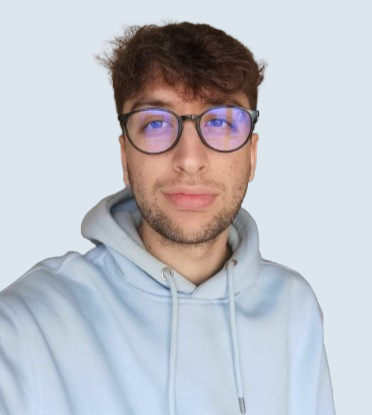
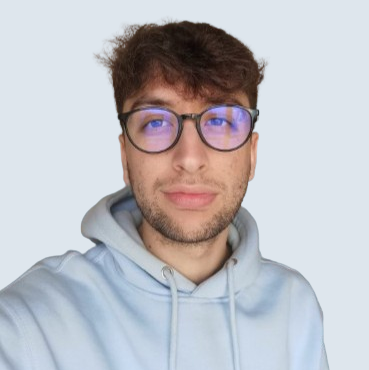
shrink and square photos, rm twitter

Changed region(s): [[0.0, 0.0297, 0.9241, 1.0], [0.626, 0.0892, 0.6856, 0.1486], [0.0, 0.9514, 0.0596, 1.0]]

diff --git a/assets/css/main.scss b/assets/css/main.scss
@@ -158,49 +158,49 @@ https://github.com/mmistakes/minimal-mistakes/blob/8a67ce8e41ec850f2d7c373aa4773
 // }
 
 // make the grid items 3 across instead of 4
-.grid__item {
+// .grid__item {
 
-  @include breakpoint($medium) {
-    margin-left: 0; /* override margin*/
-    margin-right: 0; /* override margin*/
-    width: span(4 of 12);
+//   @include breakpoint($medium) {
+//     margin-left: 0; /* override margin*/
+//     margin-right: 0; /* override margin*/
+//     width: span(4 of 12);
 
-    &:nth-child(2n + 1) {
-      clear: none;
-    }
+//     &:nth-child(2n + 1) {
+//       clear: none;
+//     }
 
-    &:nth-child(3n + 1) {
-      clear: both;
-      // clear: none;
-      // margin-left: gutter(1 of 12);
-    }
+//     &:nth-child(3n + 1) {
+//       clear: both;
+//       // clear: none;
+//       // margin-left: gutter(1 of 12);
+//     }
 
-//////////////////////////////////////// original settings
-    // &:nth-child(2n + 1) {
-    //   // clear: none;
-    // }
+// //////////////////////////////////////// original settings
+//     // &:nth-child(2n + 1) {
+//     //   // clear: none;
+//     // }
 
-    // &:nth-child(4n + 1) {
-    //   // clear: both;
-    // }
+//     // &:nth-child(4n + 1) {
+//     //   // clear: both;
+//     // }
 
-    // &:nth-child(4n + 2) {
-    //   clear: none;
-    //   // margin-left: gutter(1 of 12);
-    // }
+//     // &:nth-child(4n + 2) {
+//     //   clear: none;
+//     //   // margin-left: gutter(1 of 12);
+//     // }
 
-    // &:nth-child(4n + 3) {
-      // clear: none;
-      // margin-left: gutter(1 of 12);
-    // }
+//     // &:nth-child(4n + 3) {
+//       // clear: none;
+//       // margin-left: gutter(1 of 12);
+//     // }
 
-    // &:nth-child(4n + 4) {
-      // clear: none;
-      // margin-left: gutter(1 of 12);
-    // }
-  }
+//     // &:nth-child(4n + 4) {
+//       // clear: none;
+//       // margin-left: gutter(1 of 12);
+//     // }
+//   }
 
-}
+// }
 
 // make notices a little bigger
 .notice {
@@ -210,129 +210,7 @@ https://github.com/mmistakes/minimal-mistakes/blob/8a67ce8e41ec850f2d7c373aa4773
   font-size: $type-size-5 !important;
 }
 
-// @media (min-width: 48em) { .list__item .archive__item-teaser { max-height: 120px; } }
-// .list__item {
-//   img {
-//     max-width: 200px;
-//   }
-// }
-// .list__item {
-//   .archive__item {
-//     .archive__item-teaser {
-//       height: 200px;
-//       width: 120px;
-
-//       @include breakpoint($small) {
-//         max-height: 200px;
-//         max-width: 120px;
-//       }
-
-//       @include breakpoint($medium) {
-//         max-height: 120px;
-//         max-width: 120px;
-//       }
-
-//     }
-
-//   }
-// }
-// .archive__item-teaserlist {
-//   position: relative;
-//   border-radius: $border-radius;
-//   overflow: hidden;
-
-//   img {
-//     max-height: 200px;
-//     max-width: 200px;
-//     height: auto;
-//   }
-// }
-// .list_item {
-//   margin-bottom: 2em;
-
-//   @include breakpoint($small) {
-//     float: inline-start;
-//     width: span(5 of 10);
-
-//     &:nth-child(2n + 1) {
-//       clear: both;
-//       margin-inline-start: 0;
-//     }
-
-//     &:nth-child(2n + 2) {
-//       clear: none;
-//       margin-inline-start: gutter(of 10);
-//     }
-//   }
-
-//   @include breakpoint($medium) {
-//     margin-inline: 0; /* override margin*/
-//     width: span(3 of 12);
-
-//     &:nth-child(2n + 1) {
-//       clear: none;
-//     }
-
-//     &:nth-child(4n + 1) {
-//       clear: both;
-//     }
-
-//     &:nth-child(4n + 2) {
-//       clear: none;
-//       margin-inline-start: gutter(1 of 12);
-//     }
-
-//     &:nth-child(4n + 3) {
-//       clear: none;
-//       margin-inline-start: gutter(1 of 12);
-//     }
-
-//     &:nth-child(4n + 4) {
-//       clear: none;
-//       margin-inline-start: gutter(1 of 12);
-//     }
-//   }
-
-//   .page__meta {
-//     margin: 0 0 4px;
-//     font-size: 0.6em;
-//   }
-
-//   .page__meta-sep {
-//     display: block;
-
-//     &::before {
-//       display: none;
-//     }
-//   }
-
-//   .archive__item-title {
-//     margin-top: 0.5em;
-//     font-size: $type-size-5;
-//   }
-
-//   .archive__item-excerpt {
-//     display: none;
-
-//     @include breakpoint($medium) {
-//       display: block;
-//       font-size: $type-size-6;
-//     }
-//   }
-
-//   .archive__item-teaser {
-//     @include breakpoint($small) {
-//       max-height: 200px;
-//     }
-
-//     @include breakpoint($medium) {
-//       max-height: 120px;
-//     }
-//   }
-// }
-// @media (min-width: 48em) { .list__item .archive__item-excerpt { display: block; font-size: 0.75em; } }
-// @media (min-width: 37.5em) { .list__item .archive__item-teaser { max-width: 200px;max-height: 200px; } }
-// @media (min-width: 48em) { .list__item .archive__item-teaser { max-width: 120px; max-height: 120px; } }
+// a custom list with picture
 .listpic__item {
   .archive__item-teaser {
     max-width: 200px;

diff --git a/_pages/index.md b/_pages/index.md
@@ -8,10 +8,11 @@ classes: standard
   <img src="assets/images/Cava_Lab_logo.png" alt="">
 </figure> 
 
-The Cava laboratory is a research group in the [Computational Health Informatics Program](http://www.chip.org) at Boston Children's Hospital and Harvard Medical School.
-
-We are interested in improving the _interpretability_ and _fairness_ of predictive models deployed in healthcare settings.
+The Cava laboratory is a research group interested in improving the _interpretability_ and _fairness_ of predictive models deployed in healthcare settings. 
 We create and study algorithms that can embed these notions when working with health data.
+
+The lab is part of the [Computational Health Informatics Program](http://www.chip.org) at Boston Children's Hospital, affiliated with Harvard Medical School.
+
 
 **Join the Team!**
 If you're looking to do research in the areas of machine learning, interpretability, fairness, and health informatics, [see the opportunities here](/join). 
